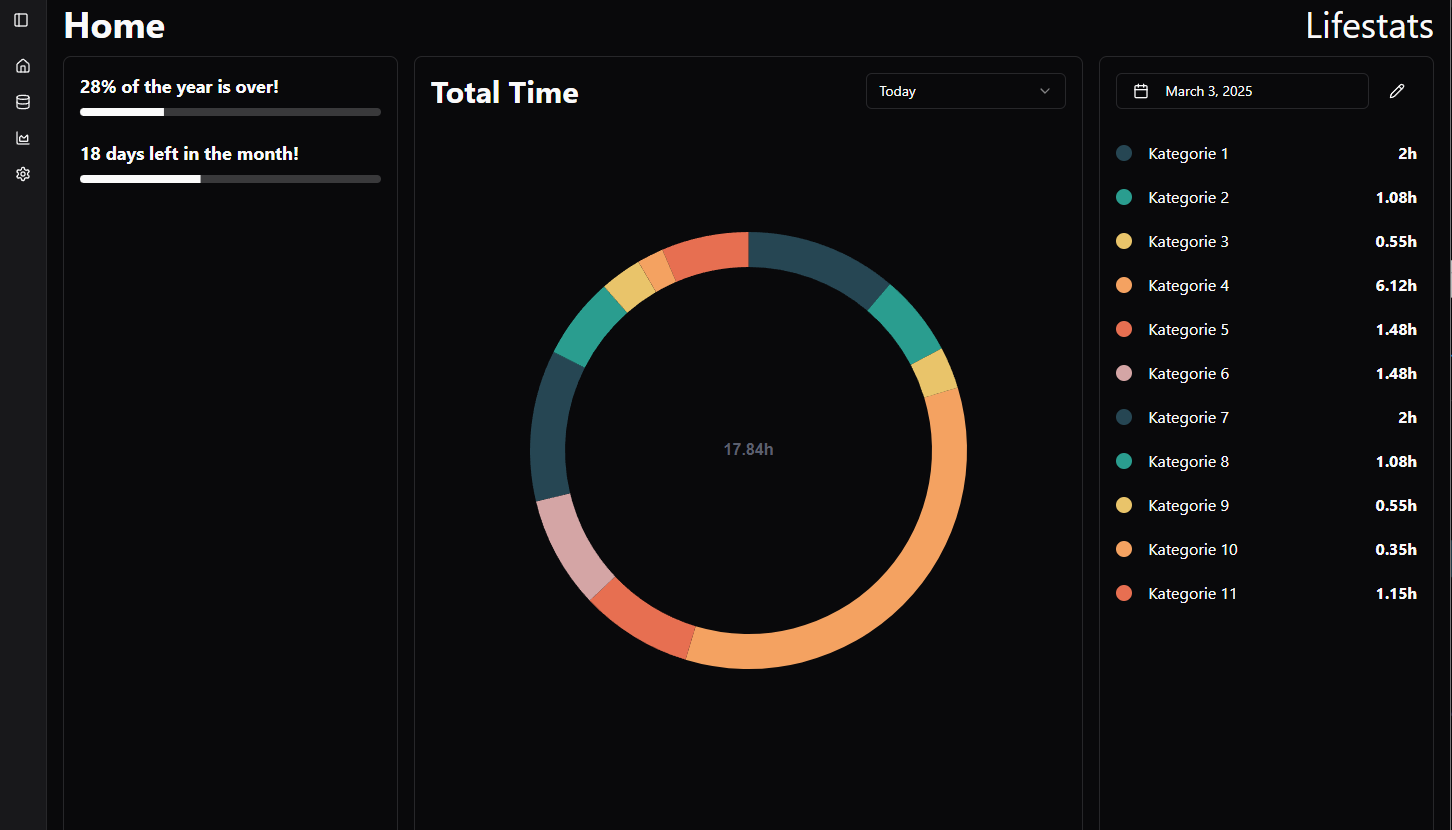
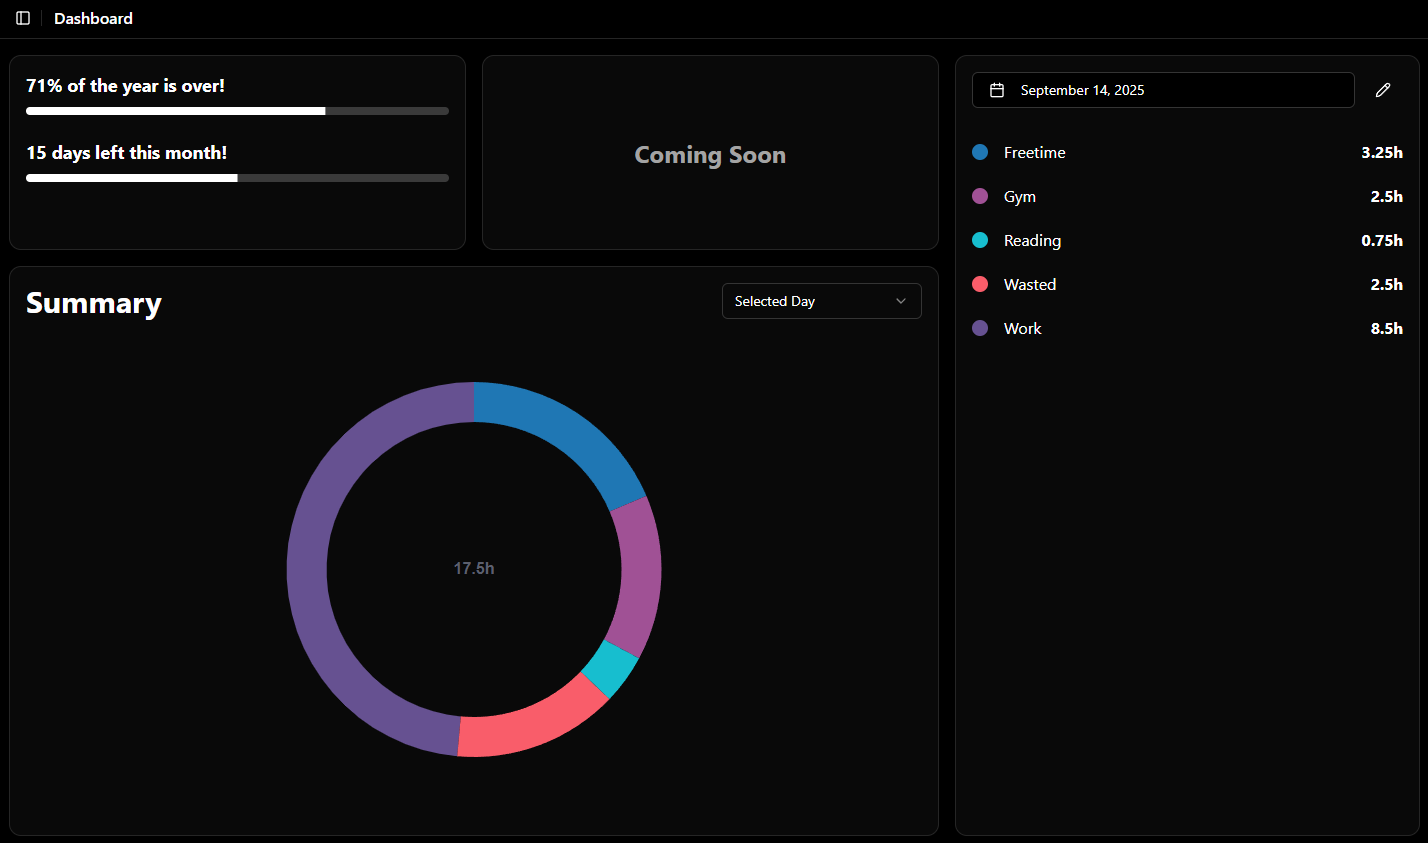
Landingpage Redesigned

diff --git a/src/components/start/StartContent.vue b/src/components/start/StartContent.vue
@@ -1,6 +1,4 @@
 <script setup lang="ts">
-
-import {AspectRatio} from "@/components/ui/aspect-ratio";
 import {Button} from "@/components/ui/button";
 import {useRouter} from "vue-router";
 
@@ -8,20 +6,27 @@ const router = useRouter()
 </script>
 
 <template>
-  <div class="flex-col ml-12 mr-12">
-    <div class="justify-items-center mb-8 mt-10">
-      <h1 class="font-bold text-6xl mb-8">Track how you spent your Time</h1>
-      <p class="font-medium text-xl text-gray-300 w-3/5 text-center mb-6">With Lifestats you can easily document and analyse how you spend your time,
+  <div class="flex-col ml-8 mr-8 sm:ml-12 sm:mr-12">
+    <h1 class="font-bold text-5xl sm:text-6xl mb-5 sm:mt-10 mt-7 text-center">Track <span class="hidden sm:inline">how you spent</span> your Time</h1>
+    <div class="justify-items-center mb-8">
+      <p class="font-medium text-xl text-gray-300 w-3/5 text-center sm:mb-1 mb-4 w-full">A simple Time Tracker for your daily tasks.</p>
+      <p class="hidden sm:block font-medium text-xl text-gray-300 w-3/5 text-center mb-6">You you can easily document and analyse how you spend your time,
         to help you achieve your goals.</p>
-      <Button variant="default" @click="router.push('/register')">Register Now</Button>
+      <Button class="flex hidden sm:block bg-background bg-indigo-600" variant="secondary" @click="router.push('/register')">Register for Free</Button>
     </div>
-    <div>
-      <AspectRatio ratio="16/9">
-        <img
-            src="../../assets/preview.png"
-            alt="Preview"
-            class="border rounded-lg shadow-lg shadow-gray-600" />
-      </AspectRatio>
+    <div class="w-full flex justify-center mb-10">
+      <!-- Desktop -->
+      <img
+          src="../../assets/preview.png"
+          alt="Preview Desktop"
+          class="hidden sm:block border rounded-lg mx-auto object-contain shadow-lg shadow-gray-400"
+      />
+      <!-- Mobile -->
+      <img
+          src="../../assets/preview_mobile.png"
+          alt="Preview Mobile"
+          class="block sm:hidden border rounded-lg mx-auto object-contain shadow-lg shadow-gray-400"
+      />
     </div>
   </div>
 </template>

diff --git a/src/views/LoginView.vue b/src/views/LoginView.vue
@@ -18,8 +18,8 @@ onMounted(async () => {
   <div class="flex min-h-svh flex-col items-center justify-center gap-6 bg-muted p-6 md:p-10">
     <div class="flex w-full max-w-sm flex-col gap-6">
       <a href="#" class="flex items-center gap-2 self-center font-medium">
-        <div class="flex h-6 w-6 items-center justify-center rounded-md bg-primary text-primary-foreground">
-          <p>Logo</p>
+        <div class="flex h-6 w-6 items-center justify-center ">
+          <img src="@/assets/icon4.png" alt="Logo" />
         </div>
         Lifestats
       </a>

diff --git a/src/views/RegisterView.vue b/src/views/RegisterView.vue
@@ -18,8 +18,8 @@ onMounted(async () => {
   <div class="flex min-h-svh flex-col items-center justify-center gap-6 bg-muted p-6 md:p-10">
     <div class="flex w-full max-w-sm flex-col gap-6">
       <a href="#" class="flex items-center gap-2 self-center font-medium">
-        <div class="flex h-6 w-6 items-center justify-center rounded-md bg-primary text-primary-foreground">
-          <p>Logo</p>
+        <div class="flex h-6 w-6 items-center justify-center ">
+          <img src="@/assets/icon4.png" alt="Logo" />
         </div>
         Lifestats
       </a>

diff --git a/src/components/start/StartHeader.vue b/src/components/start/StartHeader.vue
@@ -7,8 +7,11 @@ const router = useRouter()
 
 <template>
   <div class="flex justify-between items-center pb-4 border- border-b">
-    <div>
-      <h1>LOGO</h1>
+    <div class="flex items-center gap-4">
+      <div class=" h-6 w-6 items-center justify-center ">
+        <img src="@/assets/icon4.png" alt="Logo" />
+      </div>
+      <h1 class="font-bold text-2xl">Lifestats</h1>
     </div>
     <div>
       <Button class="mr-3" variant="ghost" @click="router.push('/login')">Log In</Button>
